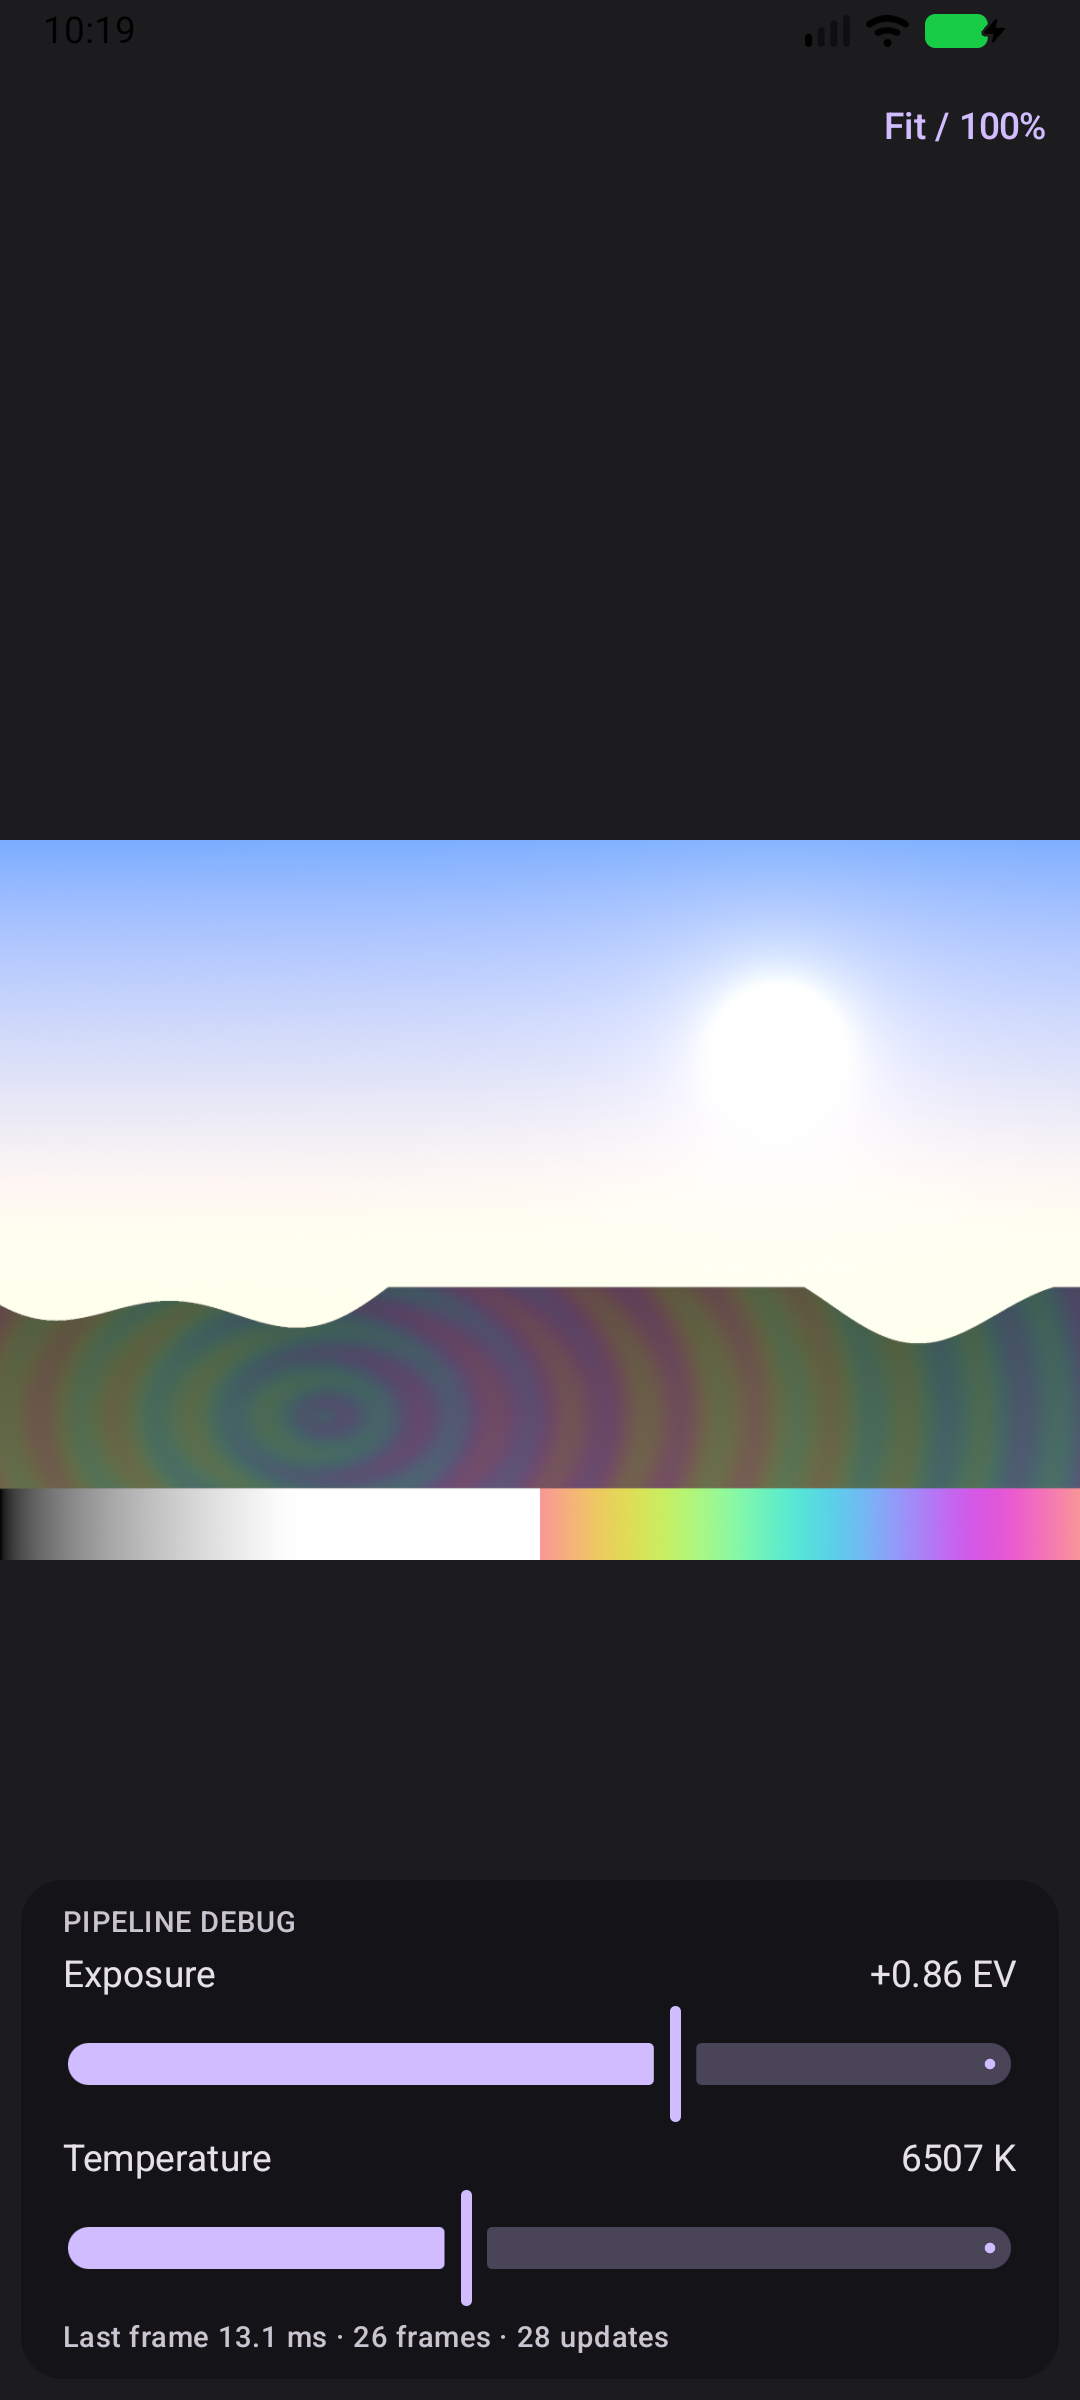
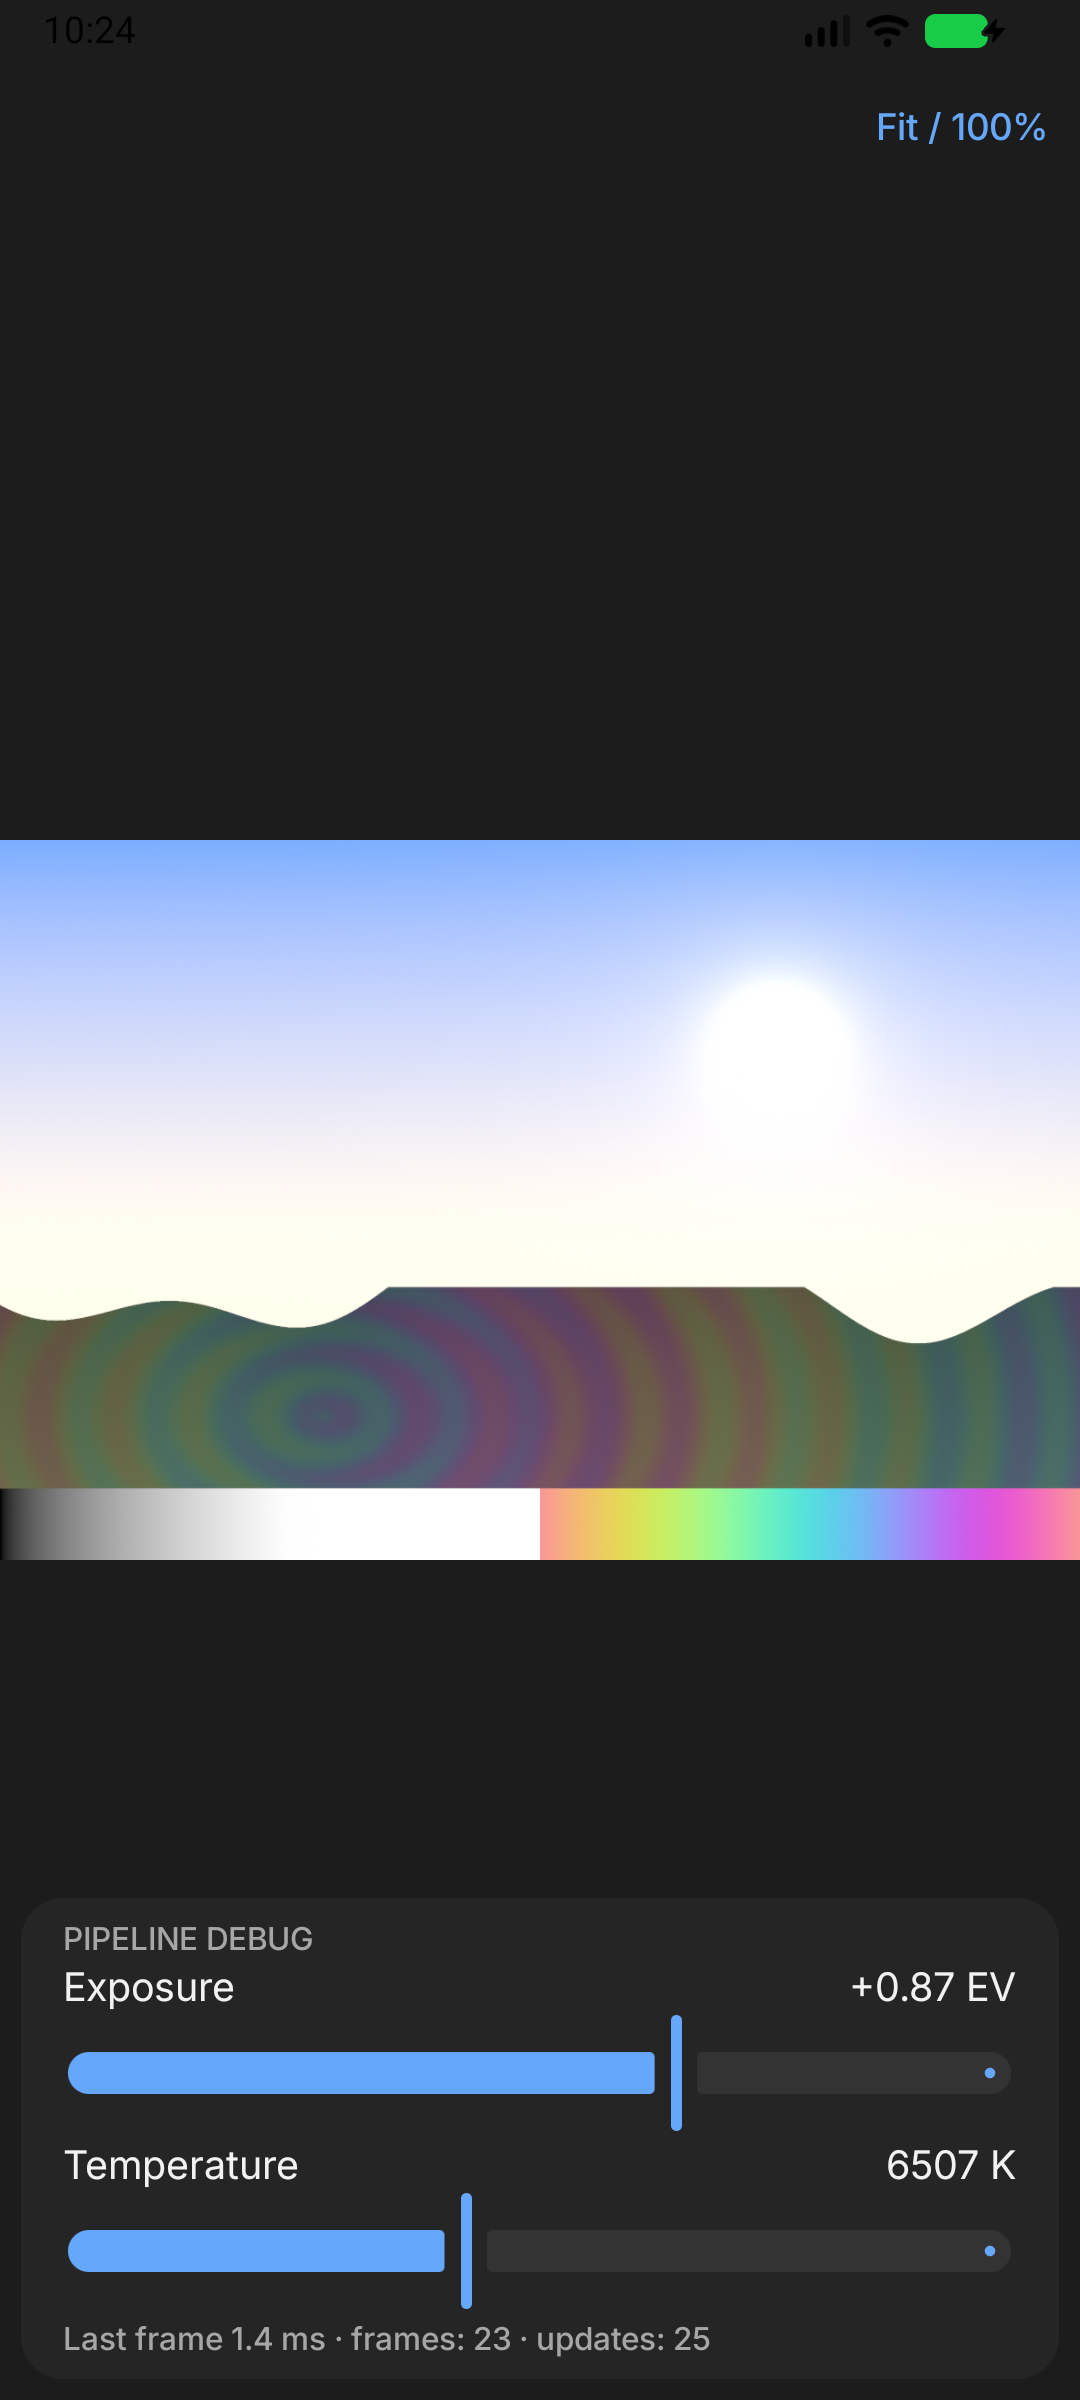
M0/W5: use EditorTheme surround, renderer surround parameter, screenshots, ADR numbers

Changed region(s): [[0.0611, 0.7812, 0.9472, 1.0], [0.7944, 0.0312, 0.9778, 0.0625], [0.0917, 0.0, 0.1222, 0.0312]]

diff --git a/core/pipeline/src/main/kotlin/dev/hfps/reveal/pipeline/gl/GpuDevelopRenderer.kt b/core/pipeline/src/main/kotlin/dev/hfps/reveal/pipeline/gl/GpuDevelopRenderer.kt
@@ -63,6 +63,9 @@ class GpuDevelopRenderer private constructor() : AutoCloseable {
         val space: OutputSpace,
     )
 
+    @Volatile
+    private var surround: FloatArray = DEFAULT_SURROUND
+
     private val request = AtomicReference(Request(Recipe.DEFAULT, false, ViewTransform(), OutputSpace.SRGB))
     private val framePosted = AtomicBoolean(false)
     private val updates = AtomicLong()
@@ -124,6 +127,12 @@ class GpuDevelopRenderer private constructor() : AutoCloseable {
     /** Sets the display output space of the on-screen pass. */
     fun setOutputSpace(space: OutputSpace) {
         update { it.copy(space = space) }
+    }
+
+    /** Sets the neutral colour around the photo from an opaque `0xRRGGBB` value (display-encoded). */
+    fun setSurround(rgb: Int) {
+        surround = floatArrayOf((rgb shr 16 and 0xff) / 255f, (rgb shr 8 and 0xff) / 255f, (rgb and 0xff) / 255f)
+        requestFrame()
     }
 
     /** Attaches the window [surface]; frames are presented into it. */
@@ -211,7 +220,7 @@ class GpuDevelopRenderer private constructor() : AutoCloseable {
         val (width, height) = egl.windowSize()
         GLES30.glBindFramebuffer(GLES30.GL_FRAMEBUFFER, 0)
         GLES30.glViewport(0, 0, width, height)
-        drawOutput(image, req.view, width, height, OutputSettings(req.space), SURROUND_RGB)
+        drawOutput(image, req.view, width, height, OutputSettings(req.space), surround)
         val submitted = System.nanoTime()
         egl.swap()
         var gpuWall = lastStats.gpuWallMs
@@ -266,7 +275,7 @@ class GpuDevelopRenderer private constructor() : AutoCloseable {
         GLES30.glBindFramebuffer(GLES30.GL_FRAMEBUFFER, readFbo)
         GLES30.glViewport(0, 0, image.width, image.height)
         val identity = ViewTransform(1f, image.width / 2f, image.height / 2f)
-        drawOutput(image, identity, image.width, image.height, settings, SURROUND_RGB)
+        drawOutput(image, identity, image.width, image.height, settings, surround)
     }
 
     private fun readLinear(recipe: Recipe): FloatArray {
@@ -473,9 +482,8 @@ class GpuDevelopRenderer private constructor() : AutoCloseable {
         private const val NANOS_PER_MS = 1_000_000f
         private const val NEAREST_ABOVE_SCALE = 2f
 
-        /** The neutral surround outside the image, display-encoded `#1c1c1e`. */
-        // TODO(theme worker): take this from EditorTheme once the theme is merged.
-        private val SURROUND_RGB = floatArrayOf(0x1c / 255f, 0x1c / 255f, 0x1e / 255f)
+        /** Default surround outside the image, display-encoded `#1C1C1C` (the editor's `EditorNeutrals.Surround`). */
+        private val DEFAULT_SURROUND = floatArrayOf(0x1c / 255f, 0x1c / 255f, 0x1c / 255f)
 
         /**
          * Creates a renderer, building its GL thread, context and programs, and fails with

diff --git a/feature/editor/src/main/kotlin/dev/hfps/reveal/feature/editor/canvas/GlCanvas.kt b/feature/editor/src/main/kotlin/dev/hfps/reveal/feature/editor/canvas/GlCanvas.kt
@@ -12,18 +12,12 @@ import androidx.compose.runtime.remember
 import androidx.compose.runtime.rememberCoroutineScope
 import androidx.compose.runtime.rememberUpdatedState
 import androidx.compose.ui.Modifier
-import androidx.compose.ui.graphics.Color
+import androidx.compose.ui.graphics.toArgb
 import androidx.compose.ui.viewinterop.AndroidView
+import dev.hfps.reveal.designsystem.theme.EditorNeutrals
 import dev.hfps.reveal.pipeline.PipelineInput
 import dev.hfps.reveal.pipeline.gl.GpuDevelopRenderer
 import dev.hfps.reveal.pipeline.recipe.Recipe
-
-/**
- * The neutral surround of the editor: zero-chroma grey around the photo (docs/plan/ux.md, "The editor is a darkroom").
- * Same value the GL renderer clears to outside the image.
- */
-// TODO(theme worker): replace with the EditorTheme surround token once the theme is merged.
-internal val CanvasSurround: Color = Color(0xFF1C1C1E)
 
 /**
  * The editor's photo canvas: a [SurfaceView] fed by the GPU develop pipeline, with fit-to-screen, pinch zoom up to
@@ -53,11 +47,12 @@ fun ZoomableGlCanvas(
         renderer.setInput(input)
         zoom.setImageSize(input.width, input.height)
     }
+    LaunchedEffect(renderer) { renderer.setSurround(EditorNeutrals.Surround.toArgb() and RGB_MASK) }
     LaunchedEffect(renderer, recipe) { renderer.setRecipe(recipe) }
     DisposableEffect(renderer) { onDispose { renderer.setShowOriginal(false) } }
     Box(
         modifier = modifier
-            .background(CanvasSurround)
+            .background(EditorNeutrals.Surround)
             .canvasGestures(zoom, scope) { renderer.setShowOriginal(it) },
     ) {
         AndroidView(
@@ -92,3 +87,5 @@ fun rememberZoomState(renderer: GpuDevelopRenderer, hundredPercentScale: Float =
     remember(renderer, hundredPercentScale) {
         ZoomState(hundredPercentScale = hundredPercentScale, onChange = renderer::setView)
     }
+
+private const val RGB_MASK = 0xFFFFFF

diff --git a/app/src/debug/kotlin/dev/hfps/reveal/debug/PipelineDebugActivity.kt b/app/src/debug/kotlin/dev/hfps/reveal/debug/PipelineDebugActivity.kt
@@ -4,8 +4,7 @@ import android.os.Bundle
 import androidx.activity.ComponentActivity
 import androidx.activity.compose.setContent
 import androidx.activity.enableEdgeToEdge
-import androidx.compose.material3.MaterialTheme
-import androidx.compose.material3.darkColorScheme
+import dev.hfps.reveal.designsystem.theme.EditorTheme
 import dev.hfps.reveal.feature.editor.debug.EditorDebugScreen
 
 /**
@@ -17,7 +16,7 @@ class PipelineDebugActivity : ComponentActivity() {
         super.onCreate(savedInstanceState)
         enableEdgeToEdge()
         setContent {
-            MaterialTheme(colorScheme = darkColorScheme()) {
+            EditorTheme {
                 EditorDebugScreen()
             }
         }

diff --git a/docs/adr/0002-pipeline-order-and-working-space.md b/docs/adr/0002-pipeline-order-and-working-space.md
@@ -138,7 +138,7 @@ HDR (Rec.2020 PQ) is a later output transform in the same slot.
 ## Measurement (emulator, to be re-measured on the phone)
 
 2400x1600 proxy, stage 1 + output pass into an RGBA8 target, `glFinish` after each frame, 120 exposure values
-(`PipelineBenchmark`): mean 2.5 ms, p50 1.9 ms, p95 6.6 ms, max 9.7 ms per frame on the emulator's host GPU;
-upload plus first frame 0.9 s. On-screen, the debug canvas coalesced 80 updates into 61 frames during a
+(`PipelineBenchmark`): first (cold) run mean 2.5 ms, p50 1.9 ms, p95 6.6 ms, max 9.7 ms per frame on the emulator's host GPU, warm
+re-run mean 0.84 ms, p95 1.13 ms, max 1.26 ms; upload plus first frame 0.4-0.9 s. On-screen, the debug canvas coalesced 80 updates into 61 frames during a
 slider drag. `GL_TIME_ELAPSED` is not exposed by `android.opengl` (no binding for `EXT_disjoint_timer_query`), so GPU
 time is wall time up to `glFinish`.
